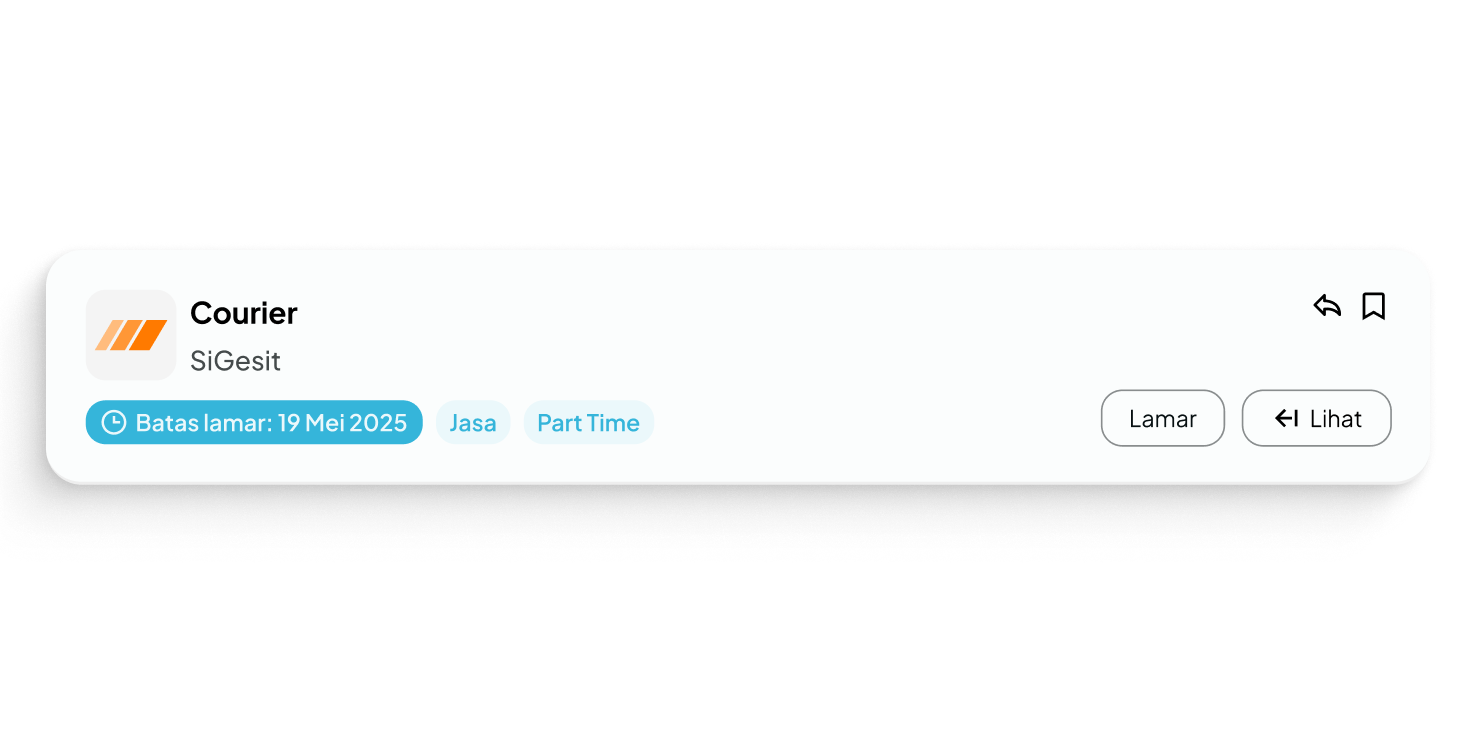
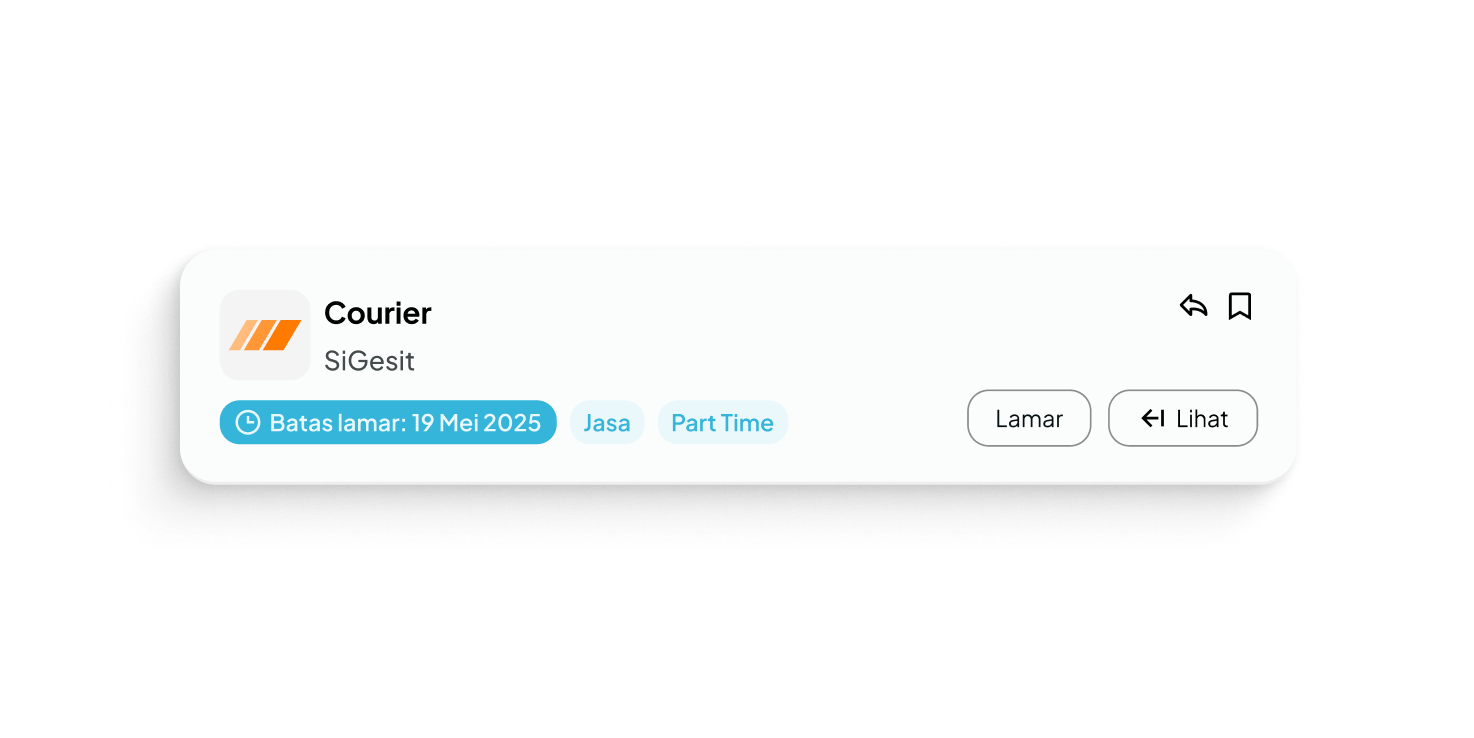
mantap kali

diff --git a/src/styles/global.css b/src/styles/global.css
@@ -1,4 +1,4 @@
-@import url('https://fonts.googleapis.com/css2?family=Inter:wght@400;500;700;900&display=swap');
+@import url('https://fonts.googleapis.com/css2?family=Plus+Jakarta+Sans:wght@400;500;700;800&display=swap');
 
 @import "tailwindcss";
 
@@ -11,8 +11,9 @@
   body {
     @apply font-sans text-gray-800 antialiased;
     
-    background-color: #EDF0F4;
+    background-color: #ffffff;
     position: relative;
+    font-family: 'Plus Jakarta Sans', sans-serif;
     /* background-image: radial-gradient(circle, #e5e5e5 1px, rgba(0, 0, 0, 0) 1px); 
     background-size: 28px 28px; */
   }
@@ -33,13 +34,8 @@
   }
 }
 
-
-
 <style>
-    .card-glow {
-        transition: all 0.3s ease-in-out;
-    }
-    .card-glow:hover {
-        box-shadow: 0 0 15px 5px rgba(150, 150, 180, 0.15), 0 0 40px 20px rgba(150, 150, 180, 0.1);
+    .transition-bouncy {
+      transition-timing-function: cubic-bezier(0.68, -0.55, 0.27, 1.55);
     }
 </style>
